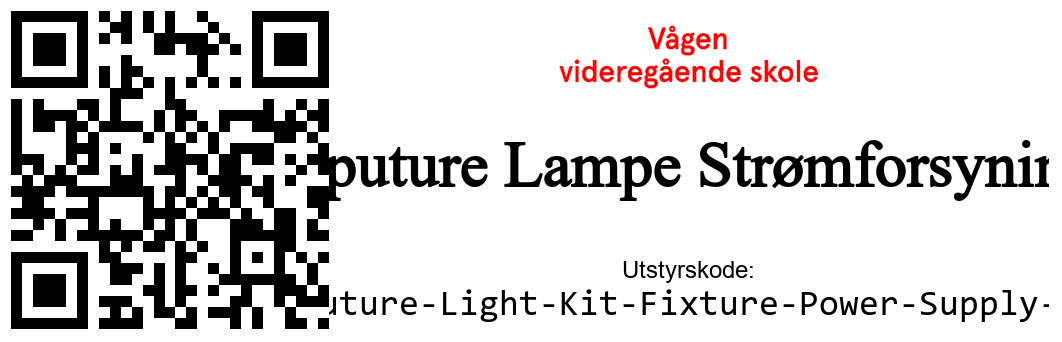
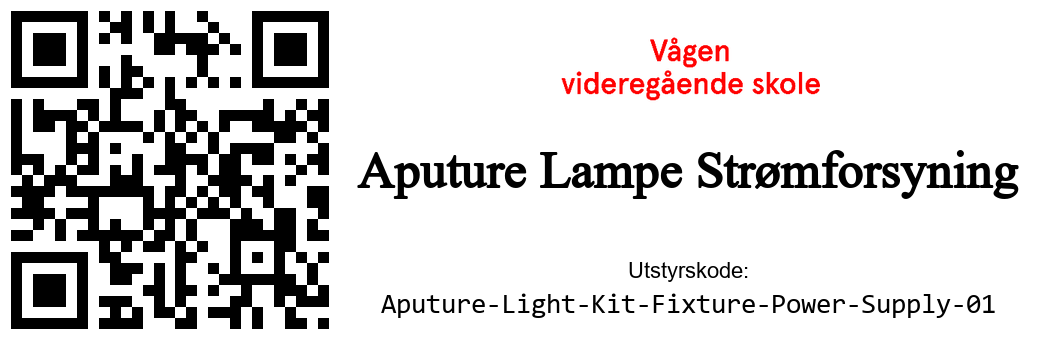
Automatically scale QR code fonts, add count to print endpoint

diff --git a/LabelGenerator/LabelGenerator.py b/LabelGenerator/LabelGenerator.py
@@ -36,8 +36,8 @@ class LabelType(Enum):
 def _qr_label(content: InventoryItem) -> PIL.Image:
     """Create a QR code label for the given content."""
     font_id = ImageFont.truetype("consola.ttf", size=36)
-    font_name = ImageFont.truetype("times.ttf", size=64)
-    font_small = ImageFont.truetype("arial.ttf", size=24)
+    font_name = ImageFont.truetype("times.ttf", size=86)
+    font_small = ImageFont.truetype("arial.ttf", size=22)
 
     qr = qrcode.QRCode(border=0)
     qr.add_data(content.id)
@@ -63,17 +63,23 @@ def _qr_label(content: InventoryItem) -> PIL.Image:
     # Add logo.png
     logo = PIL.Image.open("logo.png")
     logo = logo.resize(rect(22, 7.5), resample=PIL.Image.LANCZOS)
-    info.paste(logo, (to_pixels(19.5), to_pixels(0)))
 
-    # Add text
-    draw_text(content.item_name, 13, font_name, stroke_width=1)
-    draw_text('Utstyrskode:', 22, font_small)
+    # Find the correct font size
+    while info_draw.textbbox((0, 0), content.item_name, font=font_name, align="left", anchor="mm")[2] > to_pixels(28):
+        font_name = font_name.font_variant(size=font_name.size - 1)
+    while info_draw.textbbox((0, 0), content.id, font=font_id, align="left", anchor="mm")[2] > to_pixels(26):
+        font_id = font_id.font_variant(size=font_id.size - 1)
+
+    # Draw the text
+    draw_text(content.item_name, 13.5, font_name, stroke_width=1)
     draw_text(content.id, 25, font_id)
+    draw_text('Utstyrskode:', 22, font_small)
 
     # Construct the label
     label = PIL.Image.new("RGB", label_size, color="white")
     label.paste(qr_img, (to_pixels(1), to_pixels(1)))
     label.paste(info, (qr_img.width + to_pixels(1), to_pixels(1)))
+    label.paste(logo, (to_pixels(47.5), to_pixels(2)))
 
     return label
 

diff --git a/LabelGenerator/app.py b/LabelGenerator/app.py
@@ -62,7 +62,7 @@ def home():
 </html>"""
 
 
-@app.route('/preview', methods=['POST'])
+@app.route('/preview', methods=['GET'])
 def preview():
     item, variant = get_inventory_item(flask.request.args)
     label = create_label(item, variant=variant)
@@ -90,7 +90,7 @@ def preview():
 </html>""".format(item_id=item.id, item_name=item.item_name, variant=variant)
 
 
-@app.route('/preview', methods=['GET'])
+@app.route('/preview', methods=['POST'])
 def preview_post():
     item, variant = get_inventory_item(flask.request.args)
     label = create_label(item, variant=variant)
@@ -103,6 +103,7 @@ def preview_post():
 def print_label():
     item, variant = get_inventory_item(flask.request.args)
     label = create_label(item, variant=variant)
+    count = flask.request.args.get('count', 1)
 
     return "NOT IMPLEMENTED YET"
 

diff --git a/README.md b/README.md
@@ -35,5 +35,10 @@ Same as above, but only returns the image data. Useful for embedding in other ap
 ### POST `/print`
 Prints the label to the connected printer. (Requires setup of printer in `api.py`)
 
+Adds the `count` parameter, which specifies how many labels to print. Default: `1`
+```python
+count = 2  # Print 2 labels, default: 1
+```
+
 ## TODO
 `api.py` add connection to brother printers
